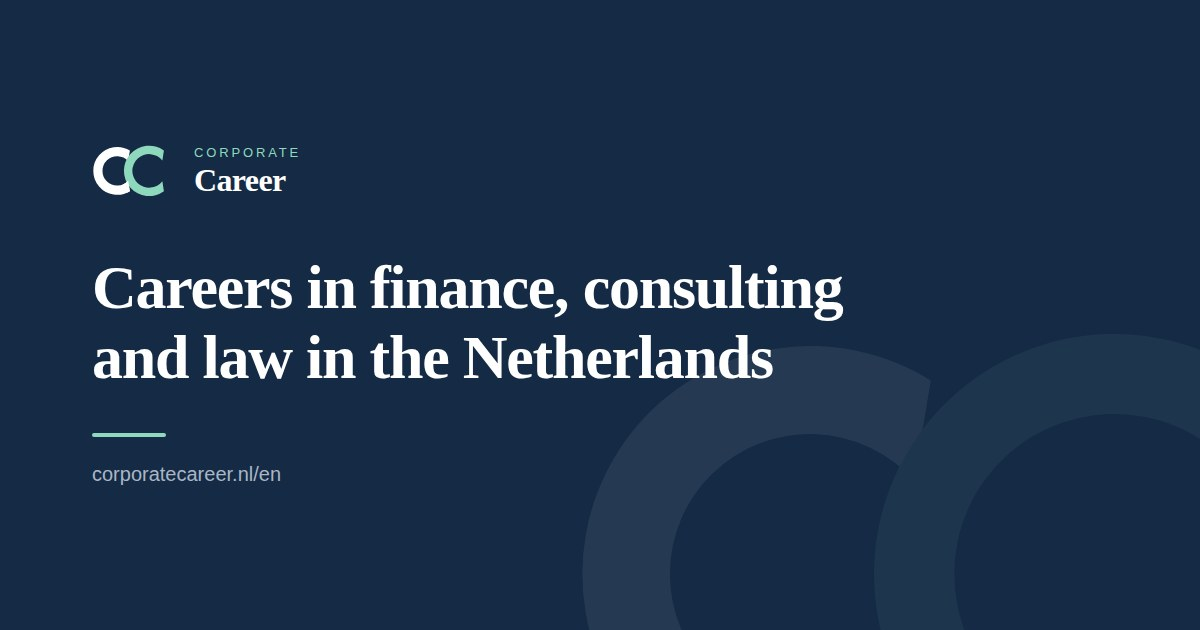
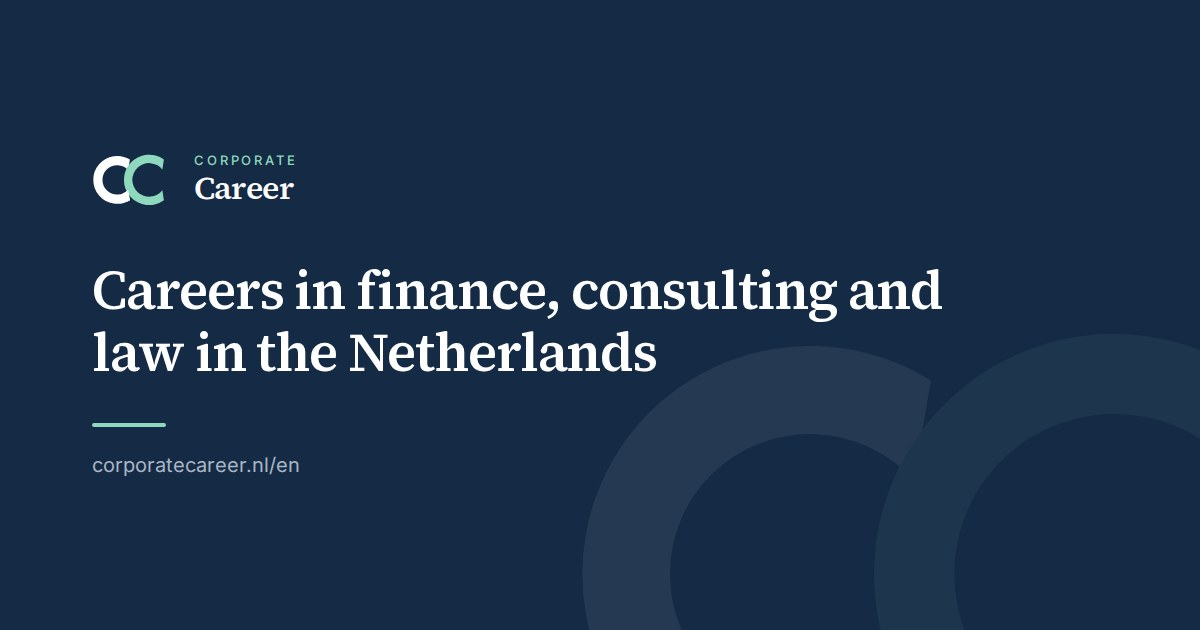
Merkbestanden voor sociale media, en de deelkaarten in de juiste letter (#129)
* Voeg merkbestanden toe voor Instagram en LinkedIn

Negen bestanden in img/brand: profielfoto op navy en op wit, de twee
LinkedIn-omslagformaten, een vierkant Instagram-bericht, het woordmerk
transparant in donker en licht, en het merkteken als SVG in beide kleurstellingen.

De profielfoto houdt het teken binnen de cirkel die Instagram eruit snijdt.
Het woordmerk is strak afgesneden zodat je zelf de ruimte eromheen bepaalt.
De SVG's bevatten alleen paden, geen lettertype, dus die zijn overal bruikbaar.

Bij het maken hiervan bleek dat de deelkaarten fout stonden. Ze werden
gerenderd vanaf een file://-document, en dat mag geen lettertypen van
localhost laden. Beide fonts faalden stil, waardoor og-cover.jpg en
og-cover-en.jpg in Times stonden in plaats van Source Serif 4 en Inter. Ze
zijn opnieuw gemaakt via de server, en de kop is een maat kleiner zodat hij
in de echte letter op twee regels past in plaats van drie.

LEESMIJ.md beschrijft per bestand waarvoor het bedoeld is, met de kleurcodes
en de waarschuwing dat emerald op navy maar 2,8:1 haalt en daar dus niet
leesbaar is.

Claude-Session: https://claude.ai/code/session_01V8HeJLCkdSqZJHyW9Qjubk

* Zet de inhoud van de LinkedIn-banners rechts

LinkedIn legt linksonder de profielfoto over een persoonlijke omslag, en het
bedrijfslogo over een bedrijfsomslag. Het woordmerk stond daar precies achter.
De inhoud staat nu rechts en links blijft vrij; het grote teken op de
[…]

diff --git a/img/brand/LEESMIJ.md b/img/brand/LEESMIJ.md
@@ -1,0 +1,48 @@
+# Merkbestanden
+
+Gegenereerd uit hetzelfde merkteken als de site zelf. Wil je ze opnieuw maken
+na een wijziging aan het logo, gebruik dan de paden uit `.logo-icon` in
+`css/style.css` als bron.
+
+## Voor sociale media
+
+| Bestand | Maat | Waarvoor |
+|---|---|---|
+| `profiel-navy.png` | 1080 x 1080 | Profielfoto Instagram en LinkedIn. Het teken staat binnen de cirkel die Instagram eruit snijdt. |
+| `profiel-wit.png` | 1080 x 1080 | Zelfde, op wit. Voor plekken waar een donkere tegel te zwaar staat. |
+| `linkedin-banner-bedrijf.png` | 1128 x 191 | Omslagfoto van een LinkedIn-bedrijfspagina. |
+| `linkedin-banner-persoonlijk.png` | 1584 x 396 | Omslagfoto van een persoonlijk LinkedIn-profiel. |
+| `instagram-post.png` | 1080 x 1080 | Vierkant bericht met het volledige woordmerk. |
+
+## Woordmerk
+
+| Bestand | Waarvoor |
+|---|---|
+| `woordmerk-donker.png` | Transparant, donkere tekst. Op lichte achtergronden. |
+| `woordmerk-licht.png` | Transparant, witte tekst. Op donkere achtergronden. |
+
+Beide staan strak afgesneden, dus zet er zelf ruimte omheen: houd minstens de
+hoogte van de C vrij aan alle kanten.
+
+## Alleen het merkteken
+
+| Bestand | Waarvoor |
+|---|---|
+| `merkteken-kleur.svg` | Navy en emerald, voor lichte achtergronden. |
+| `merkteken-wit.svg` | Wit en mint, voor donkere achtergronden. |
+
+SVG schaalt zonder kwaliteitsverlies en bevat geen lettertype, dus die kun je
+overal gebruiken, ook bij een drukker.
+
+## Kleuren
+
+- Navy `#142a45`
+- Emerald `#0e7c5a`, op donkere achtergronden `#8ed9bd`
+- Wit `#ffffff`
+
+Emerald op navy haalt maar 2,8:1 aan contrast en is daar dus niet leesbaar.
+Gebruik op donker altijd de mintvariant.
+
+## Lettertypen
+
+Corporate staat in Inter, Career in Source Serif 4. Beide staan in `fonts/`.
